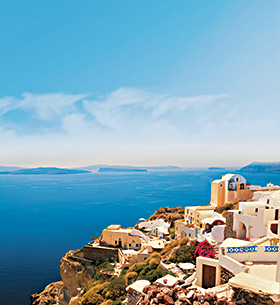
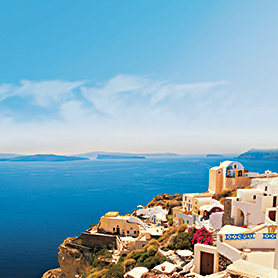
links added

Changed region(s): [[0.0, 0.518, 1.0, 1.0], [0.0, 0.259, 0.518, 0.4029], [0.5468, 0.2878, 0.8058, 0.3453]]

diff --git a/src/index.html b/src/index.html
@@ -14,56 +14,59 @@
     <!--<button type="button" onclick="test">Try it</button>-->
 
 
-    <div class="sections">
+    <div id="stories">
+        <a target="_blank" href="https://global.dev-riceedu.acsitefactory.com/students/stories">
+        <div class="mainBottom">
+
+            <!--
+
+            <img src="resources/Rice Global Mockup Resources/16.09 - Kaysie spotlight photo.jpg" alt="Humans of Rice" >-->
+                <h3 class="title" style="text-decoration: none">#HelloRice <br>#HelloWorld </h3>
+
+
+
+        </div>
+    </a>
+    </div>
+
+
+    <div id="oiss">
+        <a target="_blank" href="http://oiss.rice.edu/student/">
         <div class="mainBottom">
             <!--
 
             <img src="resources/Rice Global Mockup Resources/16.09 - Kaysie spotlight photo.jpg" alt="Humans of Rice" >-->
-            <h3 class="title">#HelloRice <br>#HelloWorld </h3>
-            <p>Read stories of Owls' international experiences. </p>
+            <h3 class="title">International Students </h3>
+
 
         </div>
+        </a>
+
+    </div>
+
+
+    <div id="abroad">
+        <a target="_blank" href="http://abroad.rice.edu/">
+        <div class="mainBottom">
+            <!--
+
+            <img src="resources/Rice Global Mockup Resources/16.09 - Kaysie spotlight photo.jpg" alt="Humans of Rice" >-->
+            <h3 class="title">Study Abroad </h3>
+
+
+        </div>
+        </a>
 
     </div>
 
 
 
-<div>
-    <table style="width:100%">
-
-        <tr>
-
-
-            <td >
+    <p>Read stories of Owls' international experiences. </p>
+    <p>Resources for international students. </p>
+    <p>Enrich your rich experience by studying abroad.</p>
 
 
-                <div class="mainBottom">
-                <h3>#HelloRice <br>#HelloWorld </h3>
-                <p>Read stories of Owls' international experiences. </p>
-                    <img src="resources/Rice Global Mockup Resources/16.09 - Kaysie spotlight photo.jpg" alt="Humans of Rice" style="width:33%">
-
-                </div>
-            </td>
-
-
-
-            <td >
-                <div class="mainBottom">
-
-                <h3>International Students </h3>
-                <p>Resources for international students. </p>
-                <div><img src="resources/Rice Global Mockup Resources/3053_dsc058182p.jpg" alt="OISS" style="width:33%"></div>
-                </div>
-            </td>
-            <td >
-                <h3>Study Abroad </h3>
-                <p>Enrich your rich experience by studying abroad.</p>
-                <img src="resources/Rice Global Mockup Resources/KT pic.jpg" alt="Study Abroad" style="width:10%">
-            </td>
-        </tr>
-
-    </table></div>
-
+    <div class="smallSections">
 
     <div class="responsive">
         <div class="gallery">
@@ -102,7 +105,7 @@
         </div>
     </div>
 
-
+    </div>
 
 
 </body>

diff --git a/src/index.css b/src/index.css
@@ -1,6 +1,9 @@
 #main{
     font-family: Verdana;
     color:#002469;
+    font-size:48px;
+    padding-left: 30px;
+
 
 
 
@@ -20,39 +23,77 @@ div.mainBottom {
     background-color:#5e60626b;
     width:100%;
     height:100%;
+    text-decoration: none;
+
+
 
 
 }
 
+div.mainBottom:hover{
+    background-color:#5e6062ff;
+}
+
+
+/*
 div.mainBottom img {
     width: 100%;
     height: 100%;
-}
+}*/
 
 .title{
     color:white;
-    font-size:48px;
+    font-size:42px;
     text-align:center;
     font-family: Arial, Helvetica, sans-serif;
+    text-decoration: none !important;
 
 }
 
 
-.sections{
+a {
+    text-decoration: none;
+}
+
+#stories{
     margin:20px;
     padding: 40px;
-
     float: left;
-    width:33.333%;
+    width:30%;
     height: 400px;
+    box-sizing: border-box;
     background-image:url("resources/Rice Global Mockup Resources/16.09 - Kaysie spotlight photo.jpg");
     background-size: contain;
     background-repeat: no-repeat;
 
 }
 
+#oiss{
+    margin:20px;
+    padding: 40px;
+    float: left;
+    width:30%;
+    height: 400px;
+    box-sizing: border-box;
+    background-image:url("resources/Rice Global Mockup Resources/3053_dsc058182p.jpg");
+    background-size: contain;
+    background-repeat: no-repeat;
+
+}
 
 
+#abroad{
+    margin:20px;
+    padding: 40px;
+    float: left;
+    width:30%;
+    height: 400px;
+    box-sizing: border-box;
+    background-image:url("resources/Rice Global Mockup Resources/greece-destination-thumb.jpg");
+    background-size: contain;
+    background-repeat: no-repeat;
+
+}
 
 
 div.gallery {
@@ -100,4 +141,8 @@ div.desc {
     content: "";
     display: table;
     clear: both;
+}
+
+div.smallSections {
+    margin:20px;
 }
